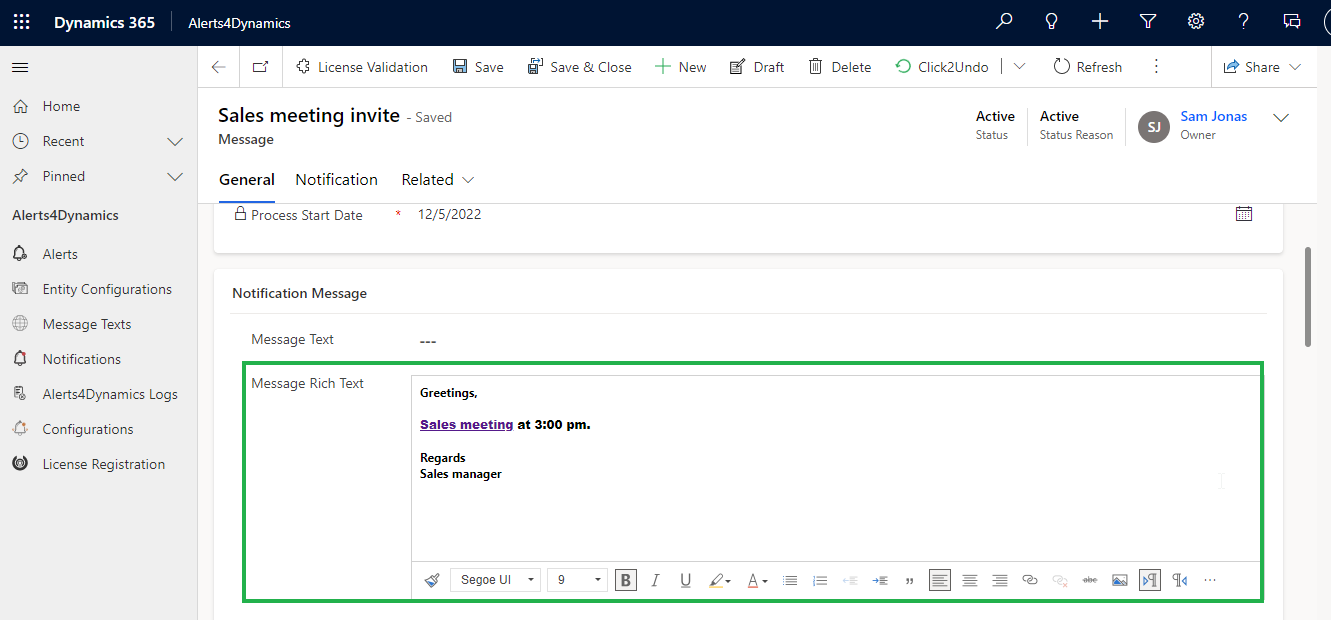
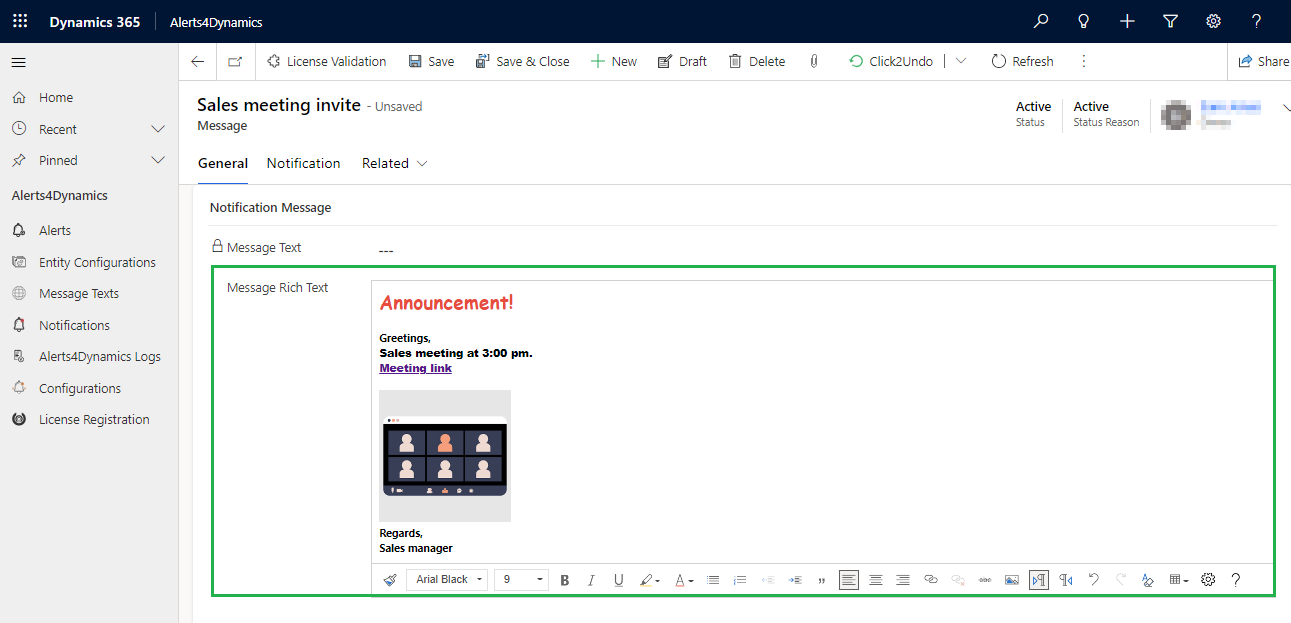
GitBook: [#3145] No subject

diff --git a/alerts4dynamics/features/message-rich-text.md b/alerts4dynamics/features/message-rich-text.md
@@ -5,13 +5,13 @@ As we already know, once an alert is created, messages can be added to it. But w
 **Message Rich Text field supports the following text formatting options:**&#x20;
 
 * Change font style and size, bold text, and italic text.
-* Underline text, add background color, and add text color.
+* Underline text, strikethrough text, add background color, and add text color.
 * Insert bullets and numbered lists, decrease or increase the indent and add quotation marks.&#x20;
 * Add links, images, and add tables in messages.
 
 <figure><img src="../../.gitbook/assets/message rich text.png" alt=""><figcaption></figcaption></figure>
 
-<figure><img src="../../.gitbook/assets/View and dismiss notifications.png" alt=""><figcaption></figcaption></figure>
+<figure><img src="../../.gitbook/assets/Message Rich Text_2.png" alt=""><figcaption></figcaption></figure>
 
 {% hint style="info" %}
 **Note:**&#x20;

diff --git a/alerts4dynamics/configuration/record-based-alert/event-based-alert.md b/alerts4dynamics/configuration/record-based-alert/event-based-alert.md
@@ -61,7 +61,7 @@ For example, the user wants an alert notification to be shown to all users in CR
 <figure><img src="../../../.gitbook/assets/Message Rich Text 3 (1).png" alt=""><figcaption></figcaption></figure>
 
 {% hint style="info" %}
-**ote:**&#x20;
+**Note:**&#x20;
 
 * **If both Message Text and Message Rich Text fields are filled, then preference will be given to Message Rich Text when displaying the notification.**
 * **Message Rich Text cannot be displayed as a bar in a form notification.**&#x20;
